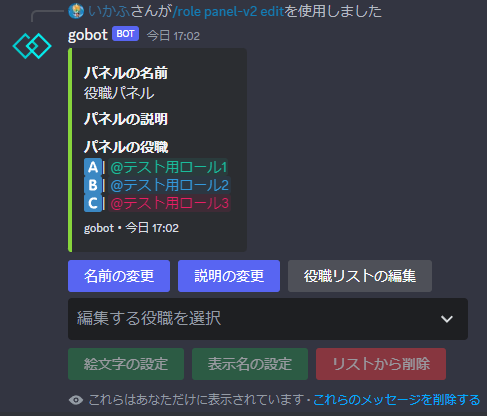
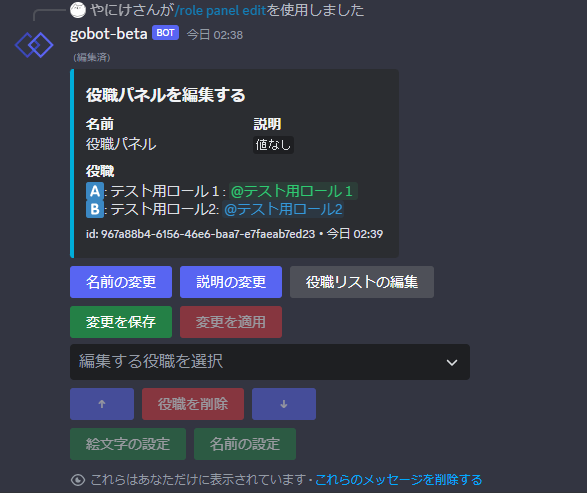
V0.13.0 (#26)
* ・フォルダ「new_assets」を作成 (#24)

・旧ファイルに変更が必要な、4つのpng, webpファイルを作成、new_assetsに追加
※show_edit_panel_after_create ファイルはwebpファイルでしたが、pngファイルの方が適切だと判断し、変更しました。

・「### 役職パネルを編集する」に以下の項目を追加
　- 変更を保存
　- 変更を適用
　- 役職の並び替え
・その他、go-bot beta に合わせ、各項目の名前を変更

* パスを変える

* v2じゃないので

* v0.13.0 (#25)

* ファイルがバグってたので修正

* ファイル名のミスを修正

---------

* 変更ログを更新

* fix link

---------

diff --git a/docs/resource/役職パネル.md b/docs/resource/役職パネル.md
@@ -1,7 +1,7 @@
 ---
 sidebar_position: 1
-id: role_panel_v2
-title: 役職パネル v2
+id: role_panel
+title: 役職パネル
 category:
   - リソース
   - 役職パネル
@@ -29,7 +29,7 @@ lastmod: 2023-09-13T04:10:55.662Z
 
 登録された役職パネルは同じギルドなら何度でも再利用することができます。
 
-![パネル作成後編集パネルが表示される](./assets/show_edit_panel_after_create.webp)
+![パネル作成後編集パネルが表示される](./assets/show_edit_panel_after_create.png)
 
 画像のような編集パネルが作成されます。このパネルを使って、ロールを追加・削除したり、パネルの名前を変更したり、役職に絵文字を設定したりすることができます。
 
@@ -101,9 +101,16 @@ lastmod: 2023-09-13T04:10:55.662Z
 
 ### 役職パネルを編集する
 
-`edit` コマンドで登録した役職パネルを編集することができます。登録した役職パネルはいつでも `edit` コマンドで編集することができます。また、編集した内容は即座にすべての配置された役職パネルに適用されます。
+`edit` コマンドで登録した役職パネルを編集することができます。登録した役職パネルはいつでもこのコマンドで編集することができます。
 
+:::caution
 同じ役職パネルを同時に編集することはできません。
+:::
+
+:::note
+`edit`コマンドを実行すると、deleted-roleは自動で削除されます。
+**（ただし、「変更を保存」ボタン、「変更を適用」を押す必要があります。）**
+:::
 
 #### 編集パネルの操作方法
 
@@ -115,9 +122,9 @@ lastmod: 2023-09-13T04:10:55.662Z
 
 「名前の変更」ボタンを押すと名前変更フォーラムが開きます。入力欄には最大32文字まで任意の名前を入力することができます。
 
-##### 説明の変更
+##### 説明の変更（省略可）
 
-「説明の変更」ボタンを押すと説明変更フォーラムが開きます。入力欄には最大140字まで任意の説明を入力することができます。入力欄は省略可能です。入力を省略した場合、パネルには説明が設定されません。
+「説明の変更」ボタンを押すと説明変更フォーラムが開きます。入力欄には最大140字まで任意の説明を入力することができます。入力を省略した場合、パネルには説明が設定されません。
 
 ##### 役職リストの編集
 
@@ -125,23 +132,36 @@ lastmod: 2023-09-13T04:10:55.662Z
 
 選択されたロールが利用不可能な場合役職リストに追加することができません。ロールの順位等を確認してから試してみてください。(例：ロールがボットのロールより上位にある等)
 
+##### 変更を保存
+
+「変更を保存」ボタンを押すと、役職パネルで編集した内容が保存されます。
+
+##### 変更を適用
+
+「変更を適用」ボタンを押すと、保存されている内容が設置されているすべての役職パネルに適用されます。
+
 ##### 役職選択メニュー
 
 編集パネルには役職セレクトメニューがあります。役職セレクトメニューで選択されている役職を下の列のボタンで編集することができます。
 
+##### 役職の並び替え
+
+「↑」ボタンを押すと、選択されている役職の位置が一つ上に移動します。
+「↓」ボタンを押すと、選択されている役職の位置が一つ下に移動します。
+
+##### 役職を削除
+
+「役職を削除」ボタンを押すと、選択されている役職が役職パネルから削除されます。
+
 ##### 絵文字の設定
 
-「絵文字の設定」ボタンを押すと絵文字受付画面に移行します。絵文字受付画面の最中にそのチャンネルに絵文字を送信することで絵文字を選択されている役職に設定できます。絵文字が正しく設定された場合、「✅」のリアクションが付与されます。
+「絵文字の設定」ボタンを押すと絵文字受付画面に移行します。絵文字受付画面の最中にそのチャンネルに絵文字を送信することで絵文字を選択されている役職に設定できます。絵文字が正しく設定された場合、「:white_check_mark:」のリアクションが付与されます。
 
-##### 表示名の設定
+##### 名前の設定
 
-「表示名の設定」ボタンを押すと役職の表示名設定フォームに移行します。入力欄には最大32文字まで任意の表示名を入力することができます。
+「名前の設定」ボタンを押すと役職の表示名設定フォームに移行します。入力欄には最大32文字まで任意の表示名を入力することができます。
 
 設定された表示名はセレクトメニューパネルやボタンパネルで使用されます。
-
-##### リストから削除
-
-「リストから削除」ボタンを押すと選択されている役職が役職パネルから削除されます。
 
 ---
 
@@ -160,7 +180,7 @@ lastmod: 2023-09-13T04:10:55.662Z
 
 一覧
 
-- `/role panel-v2`
+- `/role panel`
   - `create` *役職パネルを作成して登録*
   - `place` *登録されている役職パネルを設置*
   - `edit` *登録されている役職パネルを編集*

diff --git a/docs/変更ログ.md b/docs/変更ログ.md
@@ -5,8 +5,50 @@ title: 変更ログ
 lastmod: 2023-09-12T04:51:38.074Z
 ---
 
+## v0.13.0
+
+### 2023/12/31
+
+#### 変更点
+
+- 役職パネル
+  - コマンドを変更しました
+    - `/role panel-v2` -> `/role panel`
+  - 編集画面で役職の並び替えができるようになりました
+  - 編集画面で編集した内容を保存ボタンを押すことで保存するようになりました
+  - 役職パネルと設置されているパネルに差異がある場合、編集画面から変更を適用できるようになりました
+    - 変更の適用には制限があり短時間に何度も適用すると一時的に制限がかかります
+  - 役職パネルに登録されている役職の追加、削除をより簡単にできるようにしました
+  - 役職パネルに登録されている役職の絵文字をリセットすることで順位に合わせて自動でアルファベットの絵文字を使うようになりました
+  - deleted-role を無視するようにしました
+  - 編集画面を開いた際にパネルに deleted-role が含まれていた場合、自動でそのロールを削除するようにしました
+    - 適用はされないので手動で適用する必要があります
+- レベリング機能
+  - 全てのレベルにおいてレベルアップに必要な経験値の量を調整しました
+  - レベルの上限を変更しました
+    - 99レベル -> 無制限
+  - 上記の変更を受けてすべてのレベルがリセットされます
+  - mee6から複数回レベルをインポートできてしまう問題を修正しました
+  - `/level transfer` (旧`/level user move`) した際に移行先のxpに加算されるようになりました
+  - レベルリーダーボードを追加しました
+  - `/level rank` (旧`/level point`) の表示をわかりやすくしました
+- メッセージ
+  - `/message remind` コマンドを追加しました
+    - 指定時間後にメッセージを送信できる機能です
+- 全般
+  - データベースを変更しました
+  - すべてのコードを書き直しました
+  - 一部の機能を廃止しました
+
+#### 重要な内容
+
+データベースを変更したため一部を除きすべての設定、データがリセットされます。
+役職パネルについてはデータが引き継がれます。
+
+---
+
 ## 役職パネル v2
 
 ### 2023/08/20
 
-コードを書き直してより使いやすくなった役職パネルv2を公開しました。登録したパネルを配置する方式で、3つの種類のパネルから選んで配置できます。詳細はドキュメント[役職パネル v2](resource/role_panel_v2)を参照してください。
+コードを書き直してより使いやすくなった役職パネルv2を公開しました。登録したパネルを配置する方式で、3つの種類のパネルから選んで配置できます。詳細はドキュメント[役職パネル](resource/role_panel)を参照してください。
